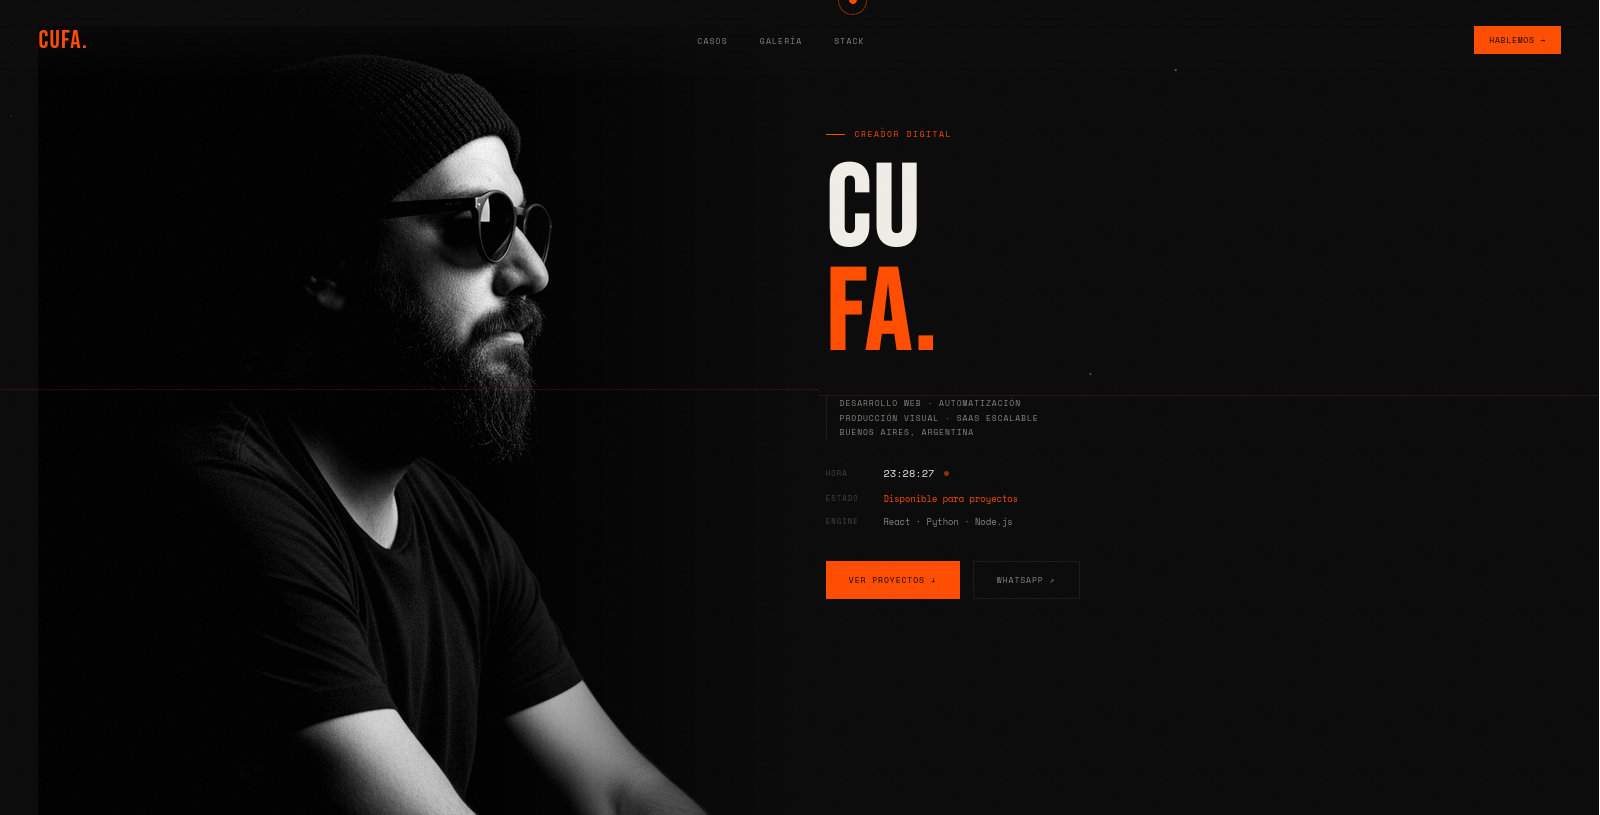
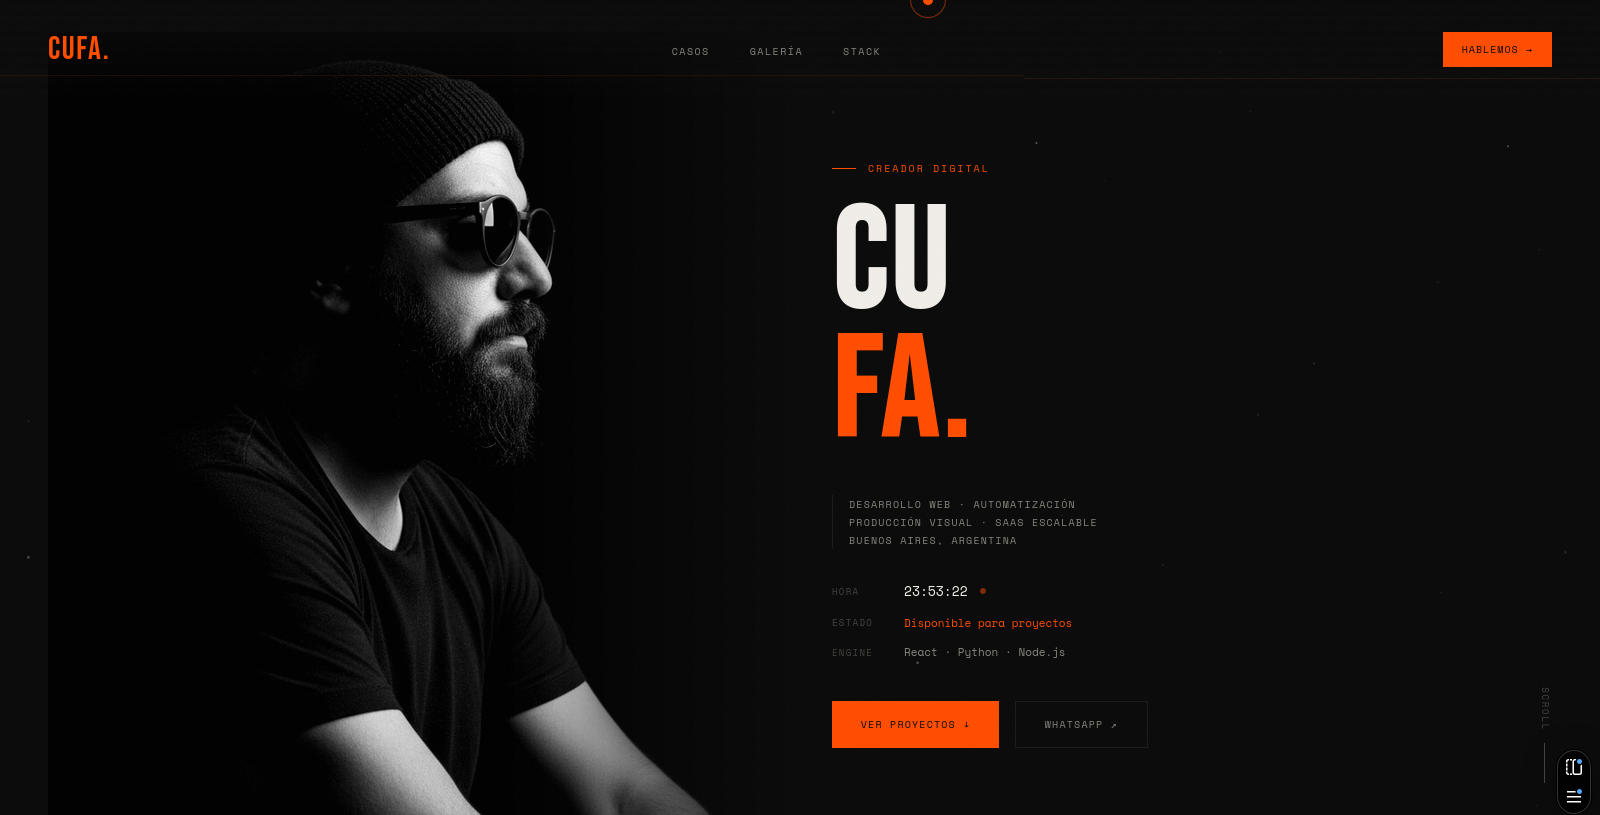
fix phone

diff --git a/index.html b/index.html
@@ -22,7 +22,7 @@
 <meta property="og:url" content="https://www.cufagon.xyz/">
 <meta property="og:title" content="CUFA — Desarrollador Web & SaaS Builder">
 <meta property="og:description" content="Desarrollo web, automatización con IA y producción visual desde Buenos Aires. React, Python, Node.js. Soluciones digitales que funcionan y se ven bien.">
-<meta property="og:image" content="https://www.cufagon.xyz/img/og-image.jpg">
+<meta property="og:image" content="https://www.cufagon.xyz/img/og-image.png">
 <meta property="og:image:width" content="1200">
 <meta property="og:image:height" content="630">
 <meta property="og:image:alt" content="CUFA — Desarrollador Web y SaaS Builder, Buenos Aires">
@@ -36,7 +36,7 @@
 <meta name="twitter:url" content="https://www.cufagon.xyz/">
 <meta name="twitter:title" content="CUFA — Desarrollador Web & SaaS Builder">
 <meta name="twitter:description" content="Desarrollo web, automatización con IA y producción visual desde Buenos Aires. React, Python, Node.js.">
-<meta name="twitter:image" content="https://www.cufagon.xyz/img/og-image.jpg">
+<meta name="twitter:image" content="https://www.cufagon.xyz/img/og-image.png">
 <meta name="twitter:image:alt" content="CUFA — Desarrollador Web y SaaS Builder">
 <meta name="twitter:creator" content="@cufadev">
 <meta name="twitter:site" content="@cufadev">